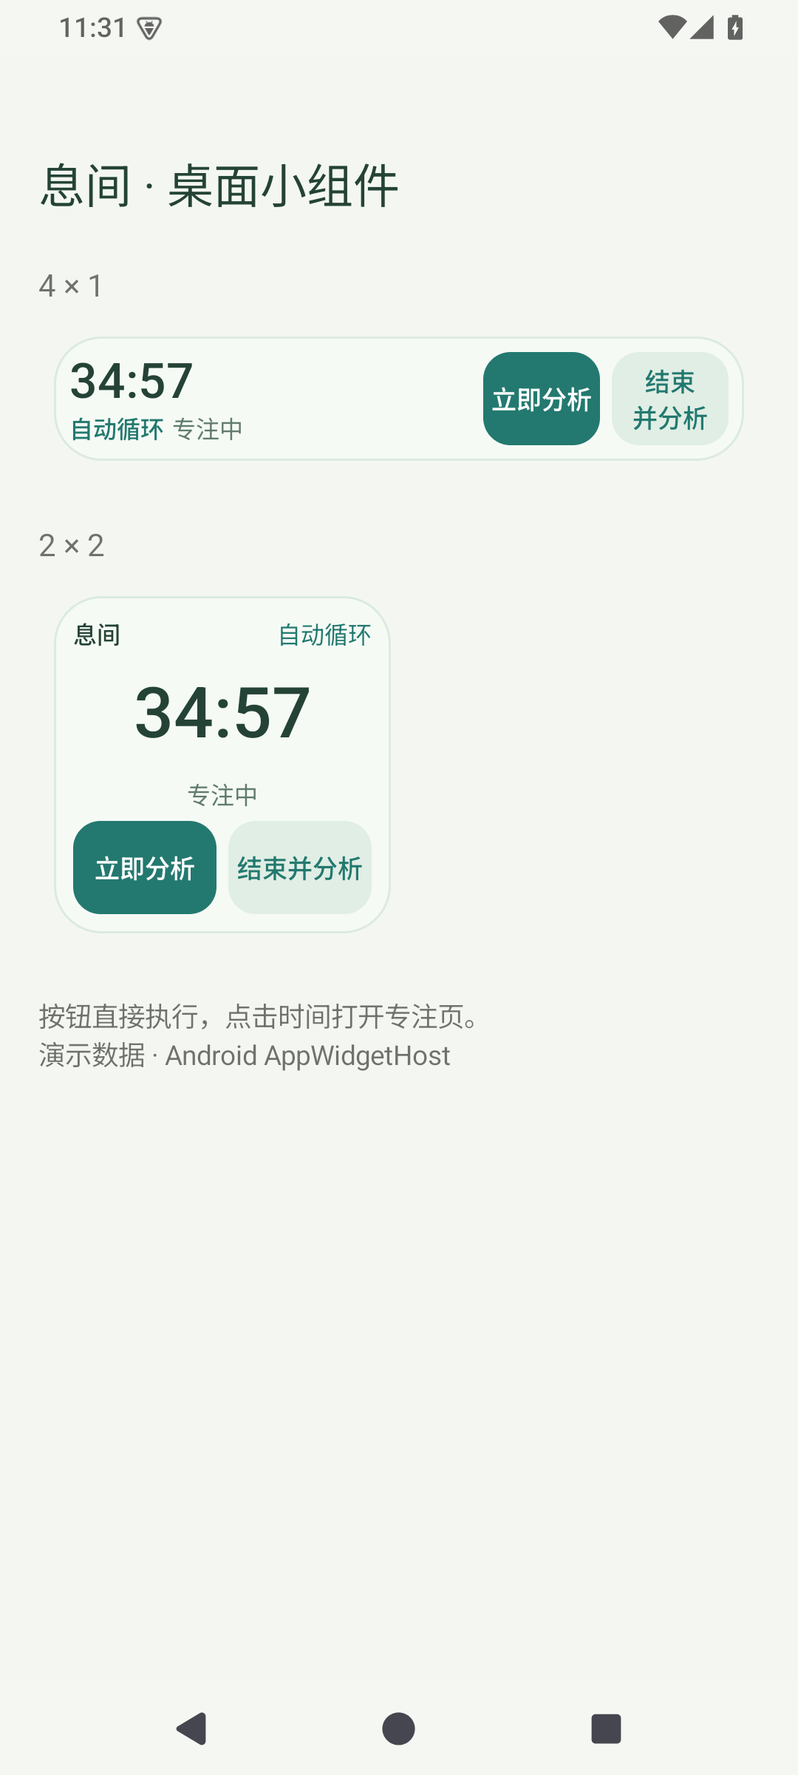
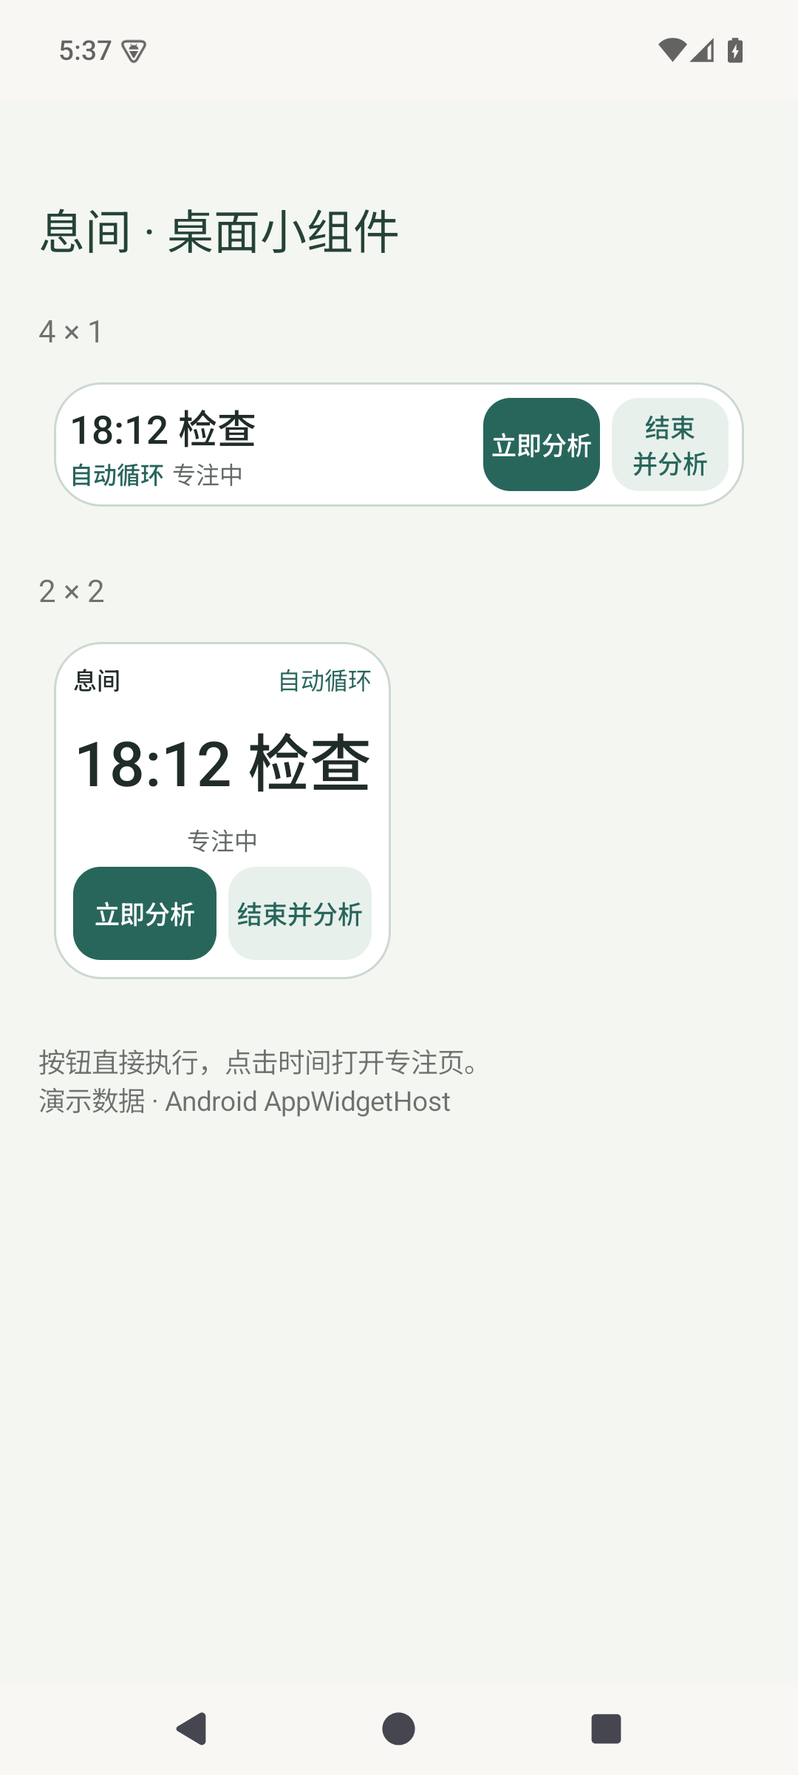
Fix negative widget countdowns in 2.5.1
Display the scheduled check time while running, stop retained launcher chronometers, and publish widget updates before deadline work completes. Reconcile overdue loop rounds before rendering, fit the check-time labels across all sizes and themes, and add deadline and upgrade regression coverage.

diff --git a/app/src/androidTest/java/com/focusinbox/app/WidgetDeadlineTest.kt b/app/src/androidTest/java/com/focusinbox/app/WidgetDeadlineTest.kt
@@ -1,0 +1,175 @@
+package com.focusinbox.app
+
+import android.appwidget.AppWidgetHost
+import android.appwidget.AppWidgetHostView
+import android.appwidget.AppWidgetManager
+import android.content.ComponentName
+import android.content.Intent
+import android.os.SystemClock
+import android.view.View
+import android.widget.Chronometer
+import android.widget.FrameLayout
+import android.widget.LinearLayout
+import android.widget.RemoteViews
+import android.widget.TextView
+import androidx.test.ext.junit.runners.AndroidJUnit4
+import androidx.test.platform.app.InstrumentationRegistry
+import org.junit.Assert.*
+import org.junit.Test
+import org.junit.runner.RunWith
+import java.text.SimpleDateFormat
+import java.util.Date
+import java.util.Locale
+import java.util.TimeZone
+
+@RunWith(AndroidJUnit4::class)
+class WidgetDeadlineTest {
+    private val ins get()=InstrumentationRegistry.getInstrumentation()
+    private val c get()=ins.targetContext
+    private fun dp(n: Int)=(n*c.resources.displayMetrics.density).toInt()
+    private fun activity()=ins.startActivitySync(Intent(c,MainActivity::class.java)
+        .addFlags(Intent.FLAG_ACTIVITY_NEW_TASK or Intent.FLAG_ACTIVITY_CLEAR_TASK)) as MainActivity
+    private fun expected(end: Long)=LocaleHelper.wrap(c).getString(R.string.widget_check_at,
+        SimpleDateFormat("HH:mm",Locale.ROOT).format(Date(end)))
+    private fun waitFor(message: String,test: ()->Boolean) {
+        val until=SystemClock.uptimeMillis()+6000
+        while(SystemClock.uptimeMillis()<until) { if(test()) return; SystemClock.sleep(40) }
+        assertTrue(message,test())
+    }
+
+    @Test fun allSizesKeepTheCheckTimeAfterDeadlineWithoutAnyAppRefresh() {
+        val a=activity()
+        val now=System.currentTimeMillis()
+        val state=WidgetState("RUNNING",7,now+800,0,35,true,1,false,true,"FAILED")
+        val displayed=mutableListOf<View>()
+        try {
+            ins.runOnMainSync {
+                val column=LinearLayout(a).apply { orientation=LinearLayout.VERTICAL }
+                listOf(FocusWidgets.render(c,1,true,state,now),FocusWidgets.render(c,2,false,state,now),FocusWidgets.renderQuick(c,3,state,now)).forEach {
+                    val view=it.apply(a,column); displayed.add(view)
+                    column.addView(view,LinearLayout.LayoutParams(dp(300),dp(150)))
+                }
+                a.setContentView(column)
+            }
+            ins.waitForIdleSync()
+            // Deliberately pass the deadline without a producer update, as when the app is suspended.
+            SystemClock.sleep(2400)
+            ins.runOnMainSync {
+                displayed.forEach { view ->
+                    assertEquals(expected(state.end),view.findViewById<TextView>(R.id.widget_time_static).text.toString())
+                    assertEquals(View.VISIBLE,view.findViewById<View>(R.id.widget_time_static).visibility)
+                    assertEquals(View.GONE,view.findViewById<View>(R.id.widget_timer).visibility)
+                }
+            }
+        } finally { ins.runOnMainSync { a.finish() } }
+    }
+
+    @Test fun upgradeReapplyStopsAnAlreadyNegativeLauncherChronometer() {
+        val a=activity(); val old=Settings(c).appearance
+        Settings(c).appearance=AppearanceMode.SYSTEM
+        try {
+            lateinit var view: View
+            ins.runOnMainSync {
+                val legacy=RemoteViews(c.packageName,R.layout.widget_wide).apply {
+                    setViewVisibility(R.id.widget_timer,View.VISIBLE)
+                    setViewVisibility(R.id.widget_time_static,View.GONE)
+                    setChronometerCountDown(R.id.widget_timer,true)
+                    setChronometer(R.id.widget_timer,SystemClock.elapsedRealtime()-1_490_000,null,true)
+                }
+                view=legacy.apply(a,FrameLayout(a)); a.setContentView(view)
+                val oldText=view.findViewById<Chronometer>(R.id.widget_timer).text.toString()
+                assertTrue("Fixture must reproduce the negative countdown",oldText.contains('-') || oldText.contains('\u2212'))
+                val now=System.currentTimeMillis()
+                val next=WidgetState("RUNNING",8,now+35*60_000L,0,35,true,0,false,true)
+                FocusWidgets.render(c,1,true,next,now).reapply(a,view)
+                assertEquals(expected(next.end),view.findViewById<TextView>(R.id.widget_time_static).text.toString())
+                assertEquals(View.GONE,view.findViewById<View>(R.id.widget_timer).visibility)
+                // Making the retained legacy child visible must not restart its ticking.
+                view.findViewById<View>(R.id.widget_timer).visibility=View.VISIBLE
+            }
+            ins.waitForIdleSync()
+            var frozen=""
+            ins.runOnMainSync { frozen=view.findViewById<Chronometer>(R.id.widget_timer).text.toString() }
+            SystemClock.sleep(1600)
+            ins.runOnMainSync { assertEquals(frozen,view.findViewById<Chronometer>(R.id.widget_timer).text.toString()) }
+        } finally { Settings(c).appearance=old; ins.runOnMainSync { a.finish() } }
+    }
+
+    @Test fun labelsFitSmallWidgetsAndRespectLocaleTimezonePauseAndExpiry() {
+        val a=activity(); val s=Settings(c); val language=s.language; val timezone=TimeZone.getDefault()
+        try {
+            val now=System.currentTimeMillis()
+            val running=WidgetState("RUNNING",7,now+35*60_000L,0,35,true,0,false,true)
+            for(zone in listOf("Asia/Shanghai","America/New_York")) {
+                TimeZone.setDefault(TimeZone.getTimeZone(zone))
+                for(lang in UiLanguage.entries) {
+                    ins.runOnMainSync { LocaleHelper.change(a,lang) }; ins.waitForIdleSync()
+                    for(shape in 0..2) for(state in listOf(running,running.copy(end=now-1),running.copy(timerState="PAUSED",remaining=10_800_000))) {
+                        ins.runOnMainSync {
+                            val remote=when(shape) { 0 -> FocusWidgets.render(c,1,true,state,now); 1 -> FocusWidgets.render(c,2,false,state,now); else -> FocusWidgets.renderQuick(c,3,state,now) }
+                            val v=remote.apply(a,FrameLayout(a)); a.setContentView(v)
+                            val w=dp(when(shape) { 0 -> 250; 1 -> 150; else -> 164 }); val h=dp(if(shape==1) 150 else 64)
+                            v.measure(View.MeasureSpec.makeMeasureSpec(w,View.MeasureSpec.EXACTLY),View.MeasureSpec.makeMeasureSpec(h,View.MeasureSpec.EXACTLY)); v.layout(0,0,w,h)
+                            val label=v.findViewById<TextView>(R.id.widget_time_static)
+                            val expected=when { state.timerState=="PAUSED" -> "180:00"; state.end<=now -> a.getString(R.string.widget_check_due); else -> expected(state.end) }
+                            assertEquals(expected,label.text.toString())
+                            val available=label.width-label.compoundPaddingLeft-label.compoundPaddingRight
+                            assertTrue("$lang shape=$shape '$expected' must fit without truncation",label.paint.measureText(expected)<=available)
+                            assertEquals("No ellipsis may replace the check time",0,label.layout.getEllipsisCount(0))
+                            assertTrue(label.lineHeight<=label.height)
+                        }
+                    }
+                }
+            }
+        } finally { TimeZone.setDefault(timezone); ins.runOnMainSync { LocaleHelper.change(a,language); a.finish() } }
+    }
+
+    @Test fun refreshRecoversMissedLoopDeadlineAndOldFailureDoesNotBlockNewRound() {
+        val a=activity(); val host=AppWidgetHost(c,2510); val manager=AppWidgetManager.getInstance(c)
+        val ids=mutableListOf<Int>(); val views=mutableListOf<AppWidgetHostView>()
+        TimerEngine.rest(c); Store(c).use { it.clear() }
+        try {
+            ins.uiAutomation.adoptShellPermissionIdentity("android.permission.BIND_APPWIDGET")
+            val providers=listOf(FocusWideWidget::class.java,FocusSquareWidget::class.java)
+            val column=LinearLayout(a).apply { orientation=LinearLayout.VERTICAL }
+            for(type in providers) {
+                val info=manager.installedProviders.first { it.provider==ComponentName(c,type) }
+                val id=host.allocateAppWidgetId(); ids.add(id)
+                assertTrue(manager.bindAppWidgetIdIfAllowed(id,info.provider))
+                ins.runOnMainSync {
+                    val view=host.createView(a,id,info); views.add(view); column.addView(view,LinearLayout.LayoutParams(dp(300),dp(170)))
+                }
+            }
+            ins.runOnMainSync { a.setContentView(column); host.startListening() }
+            FocusWidgets.updateAll(c); ins.waitForIdleSync()
+            val now=System.currentTimeMillis()
+            lateinit var expired: Store.Timer
+            var failed=0L
+            // No TimerEngine.start: deliberately omit the alarm to reproduce a missed background wake-up.
+            synchronized(TimerEngine) {
+                Store(c).use { db ->
+                    db.stopFocus(); expired=db.startFocus(35,FocusMode.LOOP,now-60*60_000L)
+                    assertTrue(db.insert(Notice(key="failed-round",pkg="chat",app="Chat",title="Friend",body="synthetic only",at=expired.start+1000,kind="private")))
+                    failed=db.createBatch(expired.start+2000)!!
+                    assertNotNull(db.claimAnalysis(failed)); assertTrue(db.transition(failed,"ANALYZING","FAILED",error="@error:CLOUD_DISABLED"))
+                }
+                FocusWidgets.updateAll(c)
+            }
+            val current=Store(c).use { it.timer() }
+            assertEquals("RUNNING",current.state); assertTrue(current.token>expired.token)
+            assertEquals(expired.end,current.start); assertEquals(expired.end+35*60_000L,current.end)
+            waitFor("Both hosts must display the new round deadline") {
+                var match=false
+                ins.runOnMainSync { match=views.all { it.findViewById<TextView>(R.id.widget_time_static)?.text?.toString()==expected(current.end) } }
+                match
+            }
+            TimerEngine.finish(c,expired.token)
+            assertEquals(current,Store(c).use { it.timer() })
+            assertEquals("FAILED",Store(c).use { it.get(failed)!!.state })
+        } finally {
+            host.stopListening(); ids.forEach { host.deleteAppWidgetId(it) }; host.deleteHost()
+            ins.uiAutomation.dropShellPermissionIdentity(); TimerEngine.rest(c); Store(c).use { it.clear() }
+            ins.runOnMainSync { a.finish() }
+        }
+    }
+}

diff --git a/app/src/main/java/com/focusinbox/app/FocusWidgets.kt b/app/src/main/java/com/focusinbox/app/FocusWidgets.kt
@@ -14,9 +14,11 @@ import android.os.Looper
 import android.os.SystemClock
 import android.view.View
 import android.widget.RemoteViews
+import java.text.SimpleDateFormat
+import java.util.Date
 import java.util.concurrent.Executors
 
-/** The launcher owns the ticking Chronometer; only real state changes refresh RemoteViews. */
+/** Widgets show a fixed check time; only real state changes refresh RemoteViews. */
 object FocusWidgets {
     const val OPEN_ACTION="com.focusinbox.app.widget.OPEN"
     const val COMMAND_ACTION="com.focusinbox.app.widget.COMMAND"
@@ -63,7 +65,7 @@ object FocusWidgets {
     fun perform(context: Context,action: WidgetAction,token: Long) {
         // Serialize the deadline catch-up, stale-button check and action with in-app timer controls.
         synchronized(TimerEngine) {
-            TimerEngine.restore(context)
+            TimerEngine.restore(context,updateWidgets=false)
             if(snapshot(context).allows(action,token)) when(action) {
                 WidgetAction.START,WidgetAction.RESUME -> TimerEngine.start(context)
                 WidgetAction.START_25 -> TimerEngine.start(context,25)
@@ -77,13 +79,18 @@ object FocusWidgets {
         }
         updateAll(context)
     }
-    fun updateAll(context: Context) {
+    fun updateAll(context: Context) = synchronized(TimerEngine) {
         val manager=AppWidgetManager.getInstance(context)
         val wide=manager.getAppWidgetIds(ComponentName(context,FocusWideWidget::class.java))
         val square=manager.getAppWidgetIds(ComponentName(context,FocusSquareWidget::class.java))
         val quick=manager.getAppWidgetIds(ComponentName(context,FocusQuickWidget::class.java))
-        if(wide.isEmpty() && square.isEmpty() && quick.isEmpty()) return
-        val state=snapshot(context)
+        if(wide.isEmpty() && square.isEmpty() && quick.isEmpty()) return@synchronized
+        var state=snapshot(context)
+        if(state.timerState=="RUNNING" && state.end<=System.currentTimeMillis()) {
+            // Reconcile before publishing; restore must not recursively enter this renderer.
+            TimerEngine.restore(context,updateWidgets=false)
+            state=snapshot(context)
+        }
         for(id in wide) manager.updateAppWidget(id,render(context,id,true,state))
         for(id in square) manager.updateAppWidget(id,render(context,id,false,state))
         for(id in quick) manager.updateAppWidget(id,renderQuick(context,id,state))
@@ -132,14 +139,25 @@ object FocusWidgets {
     private fun bindTime(context: Context,views: RemoteViews,state: WidgetState,now: Long,elapsed: Long) {
         val c=LocaleHelper.wrap(context)
         val left=state.remainingAt(now)
-        val ticking=state.timerState=="RUNNING" && left>0
-        views.setViewVisibility(R.id.widget_timer,if(ticking) View.VISIBLE else View.GONE)
-        views.setViewVisibility(R.id.widget_time_static,if(ticking) View.GONE else View.VISIBLE)
-        views.setTextViewText(R.id.widget_time_static,WidgetState.time(left))
-        views.setChronometerCountDown(R.id.widget_timer,true)
-        views.setChronometer(R.id.widget_timer,elapsed+left,null,ticking)
+        val running=state.timerState=="RUNNING"
+        val checkTime=if(running && state.end>now)
+            SimpleDateFormat("HH:mm",c.resources.configuration.locales[0]).format(Date(state.end)) else null
+        val text=when {
+            checkTime!=null -> c.getString(R.string.widget_check_at,checkTime)
+            running -> c.getString(R.string.widget_check_due)
+            else -> WidgetState.time(left)
+        }
+        // Stop and hide an already-running host Chronometer even when RemoteViews is reapplied.
+        views.setChronometer(R.id.widget_timer,elapsed,null,false)
+        views.setViewVisibility(R.id.widget_timer,View.GONE)
+        views.setViewVisibility(R.id.widget_time_static,View.VISIBLE)
+        views.setTextViewText(R.id.widget_time_static,text)
         views.setOnClickPendingIntent(R.id.widget_time_area,open(context,0))
-        views.setContentDescription(R.id.widget_time_area,c.getString(R.string.widget_open_focus))
+        views.setContentDescription(R.id.widget_time_area,when {
+            checkTime!=null -> c.getString(R.string.widget_open_check_time,checkTime)
+            running -> c.getString(R.string.widget_check_due)
+            else -> c.getString(R.string.widget_open_focus)
+        })
     }
     fun renderQuick(context: Context,id: Int,state: WidgetState,now: Long=System.currentTimeMillis(),elapsed: Long=SystemClock.elapsedRealtime()): RemoteViews {
         val c=LocaleHelper.wrap(context)
@@ -168,7 +186,7 @@ object FocusWidgets {
 open class FocusWidgetProvider : AppWidgetProvider() {
     override fun onUpdate(context: Context,manager: AppWidgetManager,ids: IntArray) {
         val result=goAsync()
-        FocusWidgets.execute { try { TimerEngine.restore(context); FocusWidgets.updateAll(context) } finally { result.finish() } }
+        FocusWidgets.execute { try { TimerEngine.restore(context) } finally { result.finish() } }
     }
     override fun onAppWidgetOptionsChanged(context: Context,manager: AppWidgetManager,id: Int,options: Bundle) { FocusWidgets.refresh(context) }
 }
@@ -185,7 +203,7 @@ class WidgetActionReceiver : BroadcastReceiver() {
         FocusWidgets.execute {
             try {
                 if(action!=null) FocusWidgets.perform(context,action,intent.getLongExtra("widget_token",-1))
-                else { TimerEngine.restore(context); FocusWidgets.updateAll(context) }
+                else TimerEngine.restore(context)
             } finally { result.finish() }
         }
     }

diff --git a/app/src/main/java/com/focusinbox/app/Runtime.kt b/app/src/main/java/com/focusinbox/app/Runtime.kt
@@ -131,14 +131,15 @@ object TimerEngine {
         schedule(c,Store(c).use { it.timer() }); BatchEngine.resume(c); FocusWidgets.refresh(c)
         return changed!=null
     }
-    @Synchronized fun restore(c: Context) {
+    @Synchronized fun restore(c: Context,updateWidgets: Boolean=true) {
         val old=Store(c).use { it.timer() }
         Store(c).use { it.advanceTimer() }
         val current=Store(c).use { it.timer() }
         if(old.token!=current.token) cancel(c,old.token)
         // Pre-2.0 used this one shared timer work name. It is never used for new rounds.
         WorkManager.getInstance(c).cancelUniqueWork("focus-timer")
-        schedule(c,current); BatchEngine.resume(c); FocusWidgets.refresh(c)
+        schedule(c,current); BatchEngine.resume(c)
+        if(updateWidgets) FocusWidgets.updateAll(c)
     }
     private fun schedule(c: Context,t: Store.Timer) {
         if(t.state!="RUNNING") return
@@ -153,14 +154,28 @@ object TimerEngine {
     }
     @Synchronized fun finish(c: Context,token: Long) {
         val changed=Store(c).use { it.advanceTimer(token) }
-        if(!changed) return
-        // The next round has a different unique work name; enqueueing it never cancels this worker.
-        schedule(c,Store(c).use { it.timer() })
-        BatchEngine.resume(c); FocusWidgets.refresh(c)
+        if(changed) {
+            // The next round has a different unique work name; enqueueing it never cancels this worker.
+            schedule(c,Store(c).use { it.timer() })
+            BatchEngine.resume(c)
+        }
+        // Publish before the timer worker/receiver completes, including stale callbacks.
+        FocusWidgets.updateAll(c)
     }
 }
 class TimerWorker(c: Context,p: WorkerParameters): Worker(c,p) {
     override fun doWork(): Result { TimerEngine.finish(applicationContext,inputData.getLong("token",0)); return Result.success() }
 }
-class TimerReceiver : BroadcastReceiver() { override fun onReceive(c: Context,i: Intent) { TimerEngine.finish(c,i.getLongExtra("token",0)) } }
-class BootReceiver : BroadcastReceiver() { override fun onReceive(c: Context,i: Intent) { if(i.action==Intent.ACTION_BOOT_COMPLETED) { TimerEngine.restore(c); BatchEngine.resume(c) } } }
+class TimerReceiver : BroadcastReceiver() {
+    override fun onReceive(c: Context,i: Intent) {
+        val result=goAsync(); val app=c.applicationContext; val token=i.getLongExtra("token",0)
+        FocusWidgets.execute { try { TimerEngine.finish(app,token) } finally { result.finish() } }
+    }
+}
+class BootReceiver : BroadcastReceiver() {
+    override fun onReceive(c: Context,i: Intent) {
+        if(i.action!=Intent.ACTION_BOOT_COMPLETED) return
+        val result=goAsync(); val app=c.applicationContext
+        FocusWidgets.execute { try { TimerEngine.restore(app) } finally { result.finish() } }
+    }
+}

diff --git a/app/src/androidTest/java/com/focusinbox/app/FocusWidgetTest.kt b/app/src/androidTest/java/com/focusinbox/app/FocusWidgetTest.kt
@@ -169,10 +169,11 @@ class FocusWidgetTest {
             waitFor("Both hosts must render actual RemoteViews") { wideView?.findViewById<View>(R.id.widget_timer)!=null && squareView?.findViewById<View>(R.id.widget_timer)!=null }
             ins.waitForIdleSync(); SystemClock.sleep(1200)
             ins.runOnMainSync {
-                assertEquals(wideView!!.findViewById<Chronometer>(R.id.widget_timer).text,squareView!!.findViewById<Chronometer>(R.id.widget_timer).text)
+                assertEquals(wideView!!.findViewById<TextView>(R.id.widget_time_static).text,squareView!!.findViewById<TextView>(R.id.widget_time_static).text)
                 assertTrue(wideView!!.findViewById<Button>(R.id.widget_primary).isEnabled)
                 assertEquals(activity.getString(R.string.widget_analyze),wideView!!.findViewById<Button>(R.id.widget_primary).text)
-                assertEquals(View.VISIBLE,wideView!!.findViewById<View>(R.id.widget_timer).visibility)
+                assertEquals(View.GONE,wideView!!.findViewById<View>(R.id.widget_timer).visibility)
+                assertEquals(View.VISIBLE,wideView!!.findViewById<View>(R.id.widget_time_static).visibility)
             }
             val bitmap=ins.uiAutomation.takeScreenshot()
             File(c.getExternalFilesDir(null),"widgets-preview.png").outputStream().use { bitmap.compress(Bitmap.CompressFormat.PNG,100,it) }; bitmap.recycle()

diff --git a/README.md b/README.md
@@ -136,15 +136,17 @@
 
 **2×1 快捷专注**适合随手开始一轮：点 **25／35／45** 就开始对应分钟数的专注，运行时可以**暂停**，暂停后点**继续**。沿用你在 App 中选择的单次或自动循环模式；循环每轮都使用这次选的时长，不会修改设置里的默认时长。
 
-**4×1 和 2×2** 提供通知分析操作。倒计时和 App 保持同步，按钮点下就执行，不弹确认框，也不用先打开 App：
+运行时，小组件显示本轮的检查时刻，例如 **11:35 检查**；暂停时显示剩余时长。自动循环进入下一轮后会更新检查时刻，App 内仍显示实时倒计时。
+
+**4×1 和 2×2** 提供通知分析操作。按钮点下就执行，不弹确认框，也不用先打开 App：
 
 - **立即分析**：先看这一轮还没处理的消息，计时和自动循环继续。
 - **结束并分析**：结束当前专注，分析剩余消息，同时停止自动循环。
-- 没有计时时显示**开始专注**，暂停时显示**继续专注**。点倒计时可以打开专注页调整时间或模式。
+- 没有计时时显示**开始专注**，暂停时显示**继续专注**。点时间可以打开专注页调整时间或模式。
 
 没有待处理消息时，分析按钮会变淡；正在分析时不能重复提交。三种组件可以一起放，它们控制的是同一个计时。
 
-<p><img src="docs/images/widgets.png" width="360" alt="4×1 横条和 2×2 方形小组件，显示倒计时、立即分析和结束并分析"></p>
+<p><img src="docs/images/widgets.png" width="360" alt="4×1 横条和 2×2 方形小组件，显示检查时刻、立即分析和结束并分析"></p>
 
 *图中为 Android 小组件宿主中的实际控件，使用演示状态。*
 

diff --git a/README.en.md b/README.en.md
@@ -136,11 +136,13 @@ Long-press an empty area of your home screen, find **StillBrief** in the widget 
 
 **2×1 Quick focus** starts a session with one tap on **25, 35, or 45** minutes. Once running, tap **Pause**, then **Resume** when ready. It follows the Single or Loop mode selected in the app. Every loop uses the chosen preset without changing your saved default duration.
 
-The countdown stays in sync with the app. Buttons work directly, without a confirmation dialog or opening the app:
+While running, widgets show the scheduled check time, such as **Check 11:35**. Pausing shows the remaining duration; each new loop updates the check time. The app keeps its live countdown.
+
+Buttons work directly, without a confirmation dialog or opening the app:
 
 - **Analyze** reviews pending messages from this round while the timer and loop keep going.
 - **End & analyze** ends this round, analyzes the remaining messages, and stops the loop.
-- When idle, tap **Start focus**; when paused, tap **Resume**. Tap the countdown to open Focus and change the duration or mode.
+- When idle, tap **Start focus**; when paused, tap **Resume**. Tap the time to open Focus and change the duration or mode.
 
 Analyze is disabled when there is nothing pending or an analysis is already running. All three widgets control the same focus session; analysis controls are on the 4×1 bar and 2×2 tile.
 

diff --git a/docs/releases/2.5.1.md b/docs/releases/2.5.1.md
@@ -1,0 +1,9 @@
+# StillBrief 2.5.1
+
+修复桌面小组件在自动循环中出现负数倒计时的问题。
+
+- 运行时显示本轮检查时刻，例如“11:35 检查”；暂停显示剩余时长，未开始显示默认时长。App 内继续显示实时倒计时。
+- 到点后完成小组件刷新再结束后台任务；恢复运行时会先校准循环轮次，再更新桌面。
+- 已放到桌面的小组件升级后会停止旧的倒计时控件，不必重新添加。
+
+显示“检查时刻”代表本轮计划结束时间。分析是否完成仍以旁边的状态为准；即使系统延迟后台任务，也不会继续显示负数。
